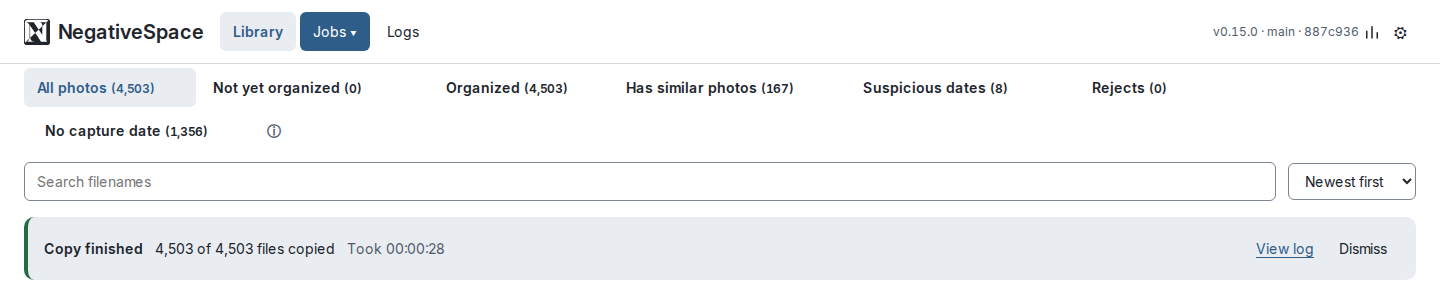
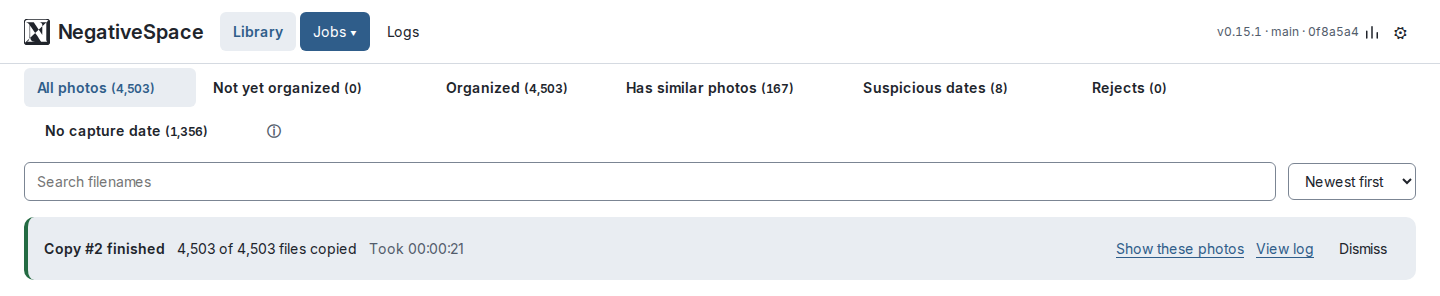
Docs: after a job and the engine package in the specs; the Copy-finished screenshot

Changed region(s): [[0.0625, 0.8209, 0.3438, 0.8818], [0.75, 0.8209, 0.875, 0.8818], [0.8438, 0.0912, 0.9688, 0.1216]]

diff --git a/docs/project-spec.md b/docs/project-spec.md
@@ -200,7 +200,10 @@ service. Built and tested:
     *   selection across views (shift-click, the Select menu, Show only selected), one
         place per selection (library photos or photos in Rejects, never both), and Copy,
         Move, Reject and Return of a selection reviewed on screen before they run;
-    *   the job drawer, with live counts, elapsed time and Cancel;
+    *   the job drawer, with live counts, elapsed time and Cancel; after a job, the gallery
+        stays where it was and the finished banner names the job ("Copy #8 finished",
+        never "failed" for a job that ran to its end) with **Show these photos**: the
+        job's photos, wherever they are now, which search and the filters narrow;
     *   the split Inspector, with a movable divider, the 1024px preview, the file's own
         details apart from the photo's EXIF information, Show all metadata, the
         photo's recent history, its lineage tree in a window of its own, and **Reject…**
@@ -232,7 +235,8 @@ service. Built and tested:
 *   **The log and the Error Center:** grouped by job, each job loading as it scrolls;
     filters by job, status, photo, text and date, named in one line with Clear all;
     failure hints with their fixes as buttons, and failure reasons on hover; a Move that
-    could only copy shown as Copied only, never as failed; Retry; and CSV/JSON export.
+    could only copy shown as Copied only, never as failed; Retry; **Show these photos in
+    the library** for each job that acted on photos; and CSV/JSON export.
 
 Specified but not yet on screen:
 *   The unbacked-changes line on every page, and Retry backup in the finished-job banner.

diff --git a/docs/engine-spec.md b/docs/engine-spec.md
@@ -12,7 +12,9 @@ boundary, architecture and component status in
 The engine is the workhorse. It runs as a standalone CLI process; the web UI's
 API layer invokes it as a child process rather than replacing it, which is why
 its flags stay documented and usable even though end users never type them
-(see `webui-spec.md` §1).
+(see `webui-spec.md` §1). It is the `engine/` package, run as `python -m engine`; the
+package docstring (`engine/__init__.py`) lists its modules by area and the rule that
+they refer to one another as `module.name`.
 
 **The engine is the only component that touches photo files.** It owns the catalog schema and writes photo state and operation history. The
 browser accesses neither SQLite nor photo files directly. The API writes settings through shared database/validation code; the web UI
